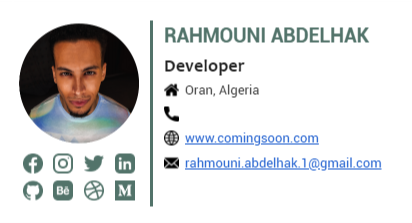
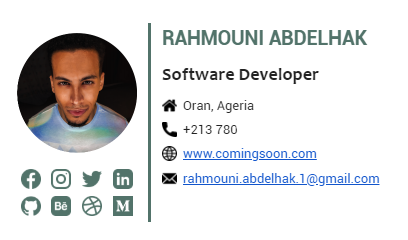
minor fixes

diff --git a/signature.html b/signature.html
@@ -4,7 +4,7 @@
     </tr>
     <tr>
         <td></td>
-        <td rowspan="6" colspan="4"><img height="120px" width="120px" src="https://raw.githubusercontent.com/Noisy96/my-email-siganture/master/ressources/images/profile_pic.png"/></td>
+        <td rowspan="6" colspan="4"><img height="120px" width="120px" src={circle chaped profile picture url}/></td>
         <td style="border-right: 3px solid #52736A; padding: 5px;"></td>
         <td style="padding: 5px"></td>
         <td colspan="8" style="font-size: 1.5em; font-weight: bold; color: #52736A">{Full name]</td>
@@ -23,40 +23,40 @@
         <td></td>
         <td style="border-right: 3px solid #52736A;"></td>
         <td></td>
-        <td "><img height="15px" src="https://raw.githubusercontent.com/Noisy96/my-email-siganture/master/ressources/icons/home.png"/></td>
+        <td><img height="15px" src="https://raw.githubusercontent.com/Noisy96/my-email-siganture/master/ressources/icons/home.png"/></td>
         <td colspan="8" style="padding: 0px 0px 5px 5px;" >{Address}</td>
     </tr>
     <tr>
         <td></td>
         <td style="border-right: 3px solid #52736A;"></td>
         <td></td>
-        <td "><img height="15px" src="https://raw.githubusercontent.com/Noisy96/my-email-siganture/master/ressources/icons/call.png"/></td>
+        <td><img height="15px" src="https://raw.githubusercontent.com/Noisy96/my-email-siganture/master/ressources/icons/call.png"/></td>
         <td colspan="8" style="padding: 0px 0px 5px 5px;" >{Phone number}</td>
     </tr>
     <tr>
         <td></td>
         <td style="border-right: 3px solid #52736A;"></td>
         <td></td>
-        <td "><img height="15px" src="https://raw.githubusercontent.com/Noisy96/my-email-siganture/master/ressources/icons/global.png"/></td>
+        <td><img height="15px" src="https://raw.githubusercontent.com/Noisy96/my-email-siganture/master/ressources/icons/global.png"/></td>
         <td colspan="8" style="padding: 0px 0px 5px 5px;" >{website}</td>
     </tr>
     <tr>
         <td></td>
-        <td align="center" "><a href="https://www.facebook.com/{username"><img height="20px" src="https://raw.githubusercontent.com/Noisy96/my-email-siganture/master/ressources/icons/facebook.png"/></a></td>
-        <td align="center" "><a href="https://www.instagram.com/{username}"><img height="20px" src="https://raw.githubusercontent.com/Noisy96/my-email-siganture/master/ressources/icons/instagram.png"/></a></td>
-        <td align="center" "><a href="https://www.twitter.com/{username}"><img height="20px" src="https://raw.githubusercontent.com/Noisy96/my-email-siganture/master/ressources/icons/twitter.png"/></a></td>
-        <td align="center" "><a href="https://www.linkedin.com/in/{username}"><img height="20px" src="https://raw.githubusercontent.com/Noisy96/my-email-siganture/master/ressources/icons/linkedin.png"/></a></td>
+        <td align="center"><a href="https://www.facebook.com/{username"><img height="20px" src="https://raw.githubusercontent.com/Noisy96/my-email-siganture/master/ressources/icons/facebook.png"/></a></td>
+        <td align="center"><a href="https://www.instagram.com/{username}"><img height="20px" src="https://raw.githubusercontent.com/Noisy96/my-email-siganture/master/ressources/icons/instagram.png"/></a></td>
+        <td align="center"><a href="https://www.twitter.com/{username}"><img height="20px" src="https://raw.githubusercontent.com/Noisy96/my-email-siganture/master/ressources/icons/twitter.png"/></a></td>
+        <td align="center"><a href="https://www.linkedin.com/in/{username}"><img height="20px" src="https://raw.githubusercontent.com/Noisy96/my-email-siganture/master/ressources/icons/linkedin.png"/></a></td>
         <td style="border-right: 3px solid #52736A;"></td>
         <td></td>
-        <td "><img height="15px" src="https://raw.githubusercontent.com/Noisy96/my-email-siganture/master/ressources/icons/email.png"/></td>
+        <td><img height="15px" src="https://raw.githubusercontent.com/Noisy96/my-email-siganture/master/ressources/icons/email.png"/></td>
         <td colspan="8" style="padding: 0px 0px 5px 5px;" >{Email}</td>
     </tr>
     <tr>
         <td></td>
-        <td align="center" "><a href="https://www.github.com/{username}"><img height="20px" src="https://raw.githubusercontent.com/Noisy96/my-email-siganture/master/ressources/icons/github.png"/></a></td>
-        <td align="center" "><a href="https://www.behance.net/{username}"><img height="20px" src="https://raw.githubusercontent.com/Noisy96/my-email-siganture/master/ressources/icons/behance.png"/></a></td>
-        <td align="center" "><a href="https://www.dribbble.com/{username}"><img height="20px" src="https://raw.githubusercontent.com/Noisy96/my-email-siganture/master/ressources/icons/dribbble.png"/></a></td>
-        <td align="center" "><a href="https://www.medium.com/{username}"><img height="20px" src="https://raw.githubusercontent.com/Noisy96/my-email-siganture/master/ressources/icons/Medium.png"/></a></td>
+        <td align="center"><a href="https://www.github.com/{username}"><img height="20px" src="https://raw.githubusercontent.com/Noisy96/my-email-siganture/master/ressources/icons/github.png"/></a></td>
+        <td align="center"><a href="https://www.behance.net/{username}"><img height="20px" src="https://raw.githubusercontent.com/Noisy96/my-email-siganture/master/ressources/icons/behance.png"/></a></td>
+        <td align="center"><a href="https://www.dribbble.com/{username}"><img height="20px" src="https://raw.githubusercontent.com/Noisy96/my-email-siganture/master/ressources/icons/dribbble.png"/></a></td>
+        <td align="center"><a href="https://www.medium.com/@{username}"><img height="20px" src="https://raw.githubusercontent.com/Noisy96/my-email-siganture/master/ressources/icons/Medium.png"/></a></td>
         <td style="border-right: 3px solid #52736A;"></td>
         <td></td>
         <td></td>

diff --git a/README.md b/README.md
@@ -1,7 +1,7 @@
 # Email signature
 
 ## Problem
-I did not like the generated templates I found online so I decided to make my own and was introduced to the horrendous world of HTML Email design and its limitations. As it was put by Lee Munroe "[HTML email: Two words that, when combined, brings tears to a developer’s eyes.](https://www.smashingmagazine.com/2017/01/introduction-building-sending-html-email-for-web-developers/)".
+I did not like the generated templates I found online so I decided to make my own and I was introduced to the horrendous world of HTML Email design and its limitations. As it was put by Lee Munroe "[HTML email: Two words that, when combined, brings tears to a developer’s eyes.](https://www.smashingmagazine.com/2017/01/introduction-building-sending-html-email-for-web-developers/)".
 
 ## Preview
 ![image of the signature taken from gmail](images/signature_image.png)
@@ -13,3 +13,5 @@ it's as simple as downloading the [signature.html](signature.html) file and repl
 
 ## Future enhancements
 Quite honestly, I'm not remotely satisfied.
+
+* I might add more social media icons options if needed.
